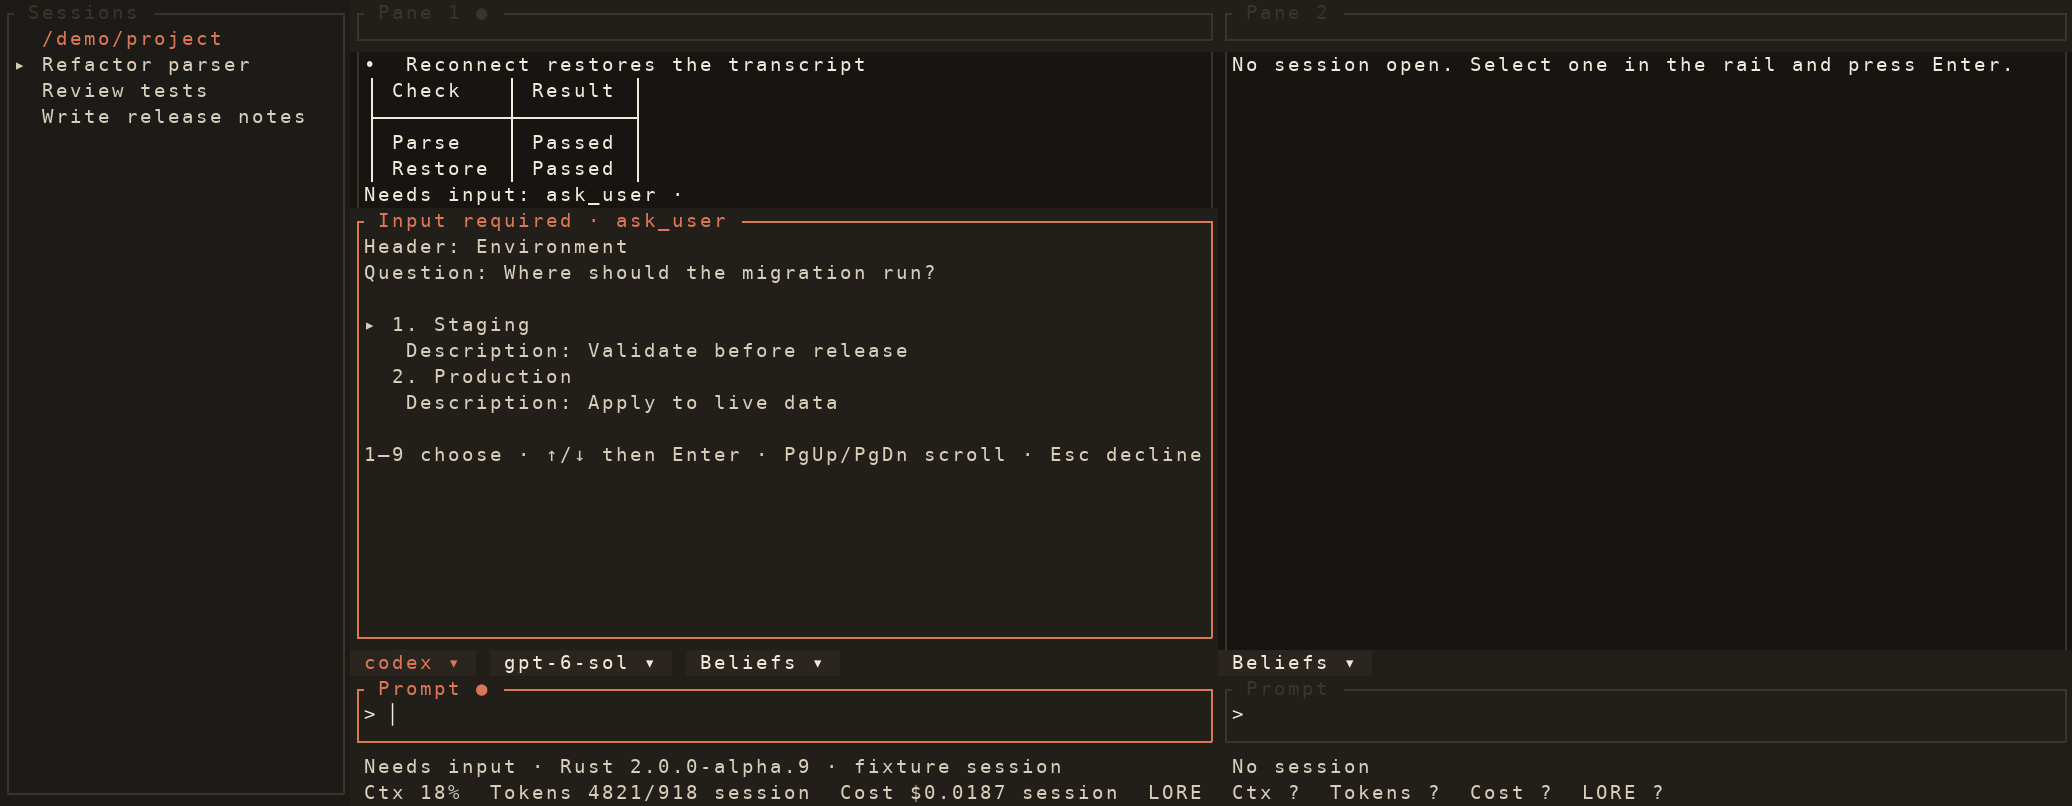
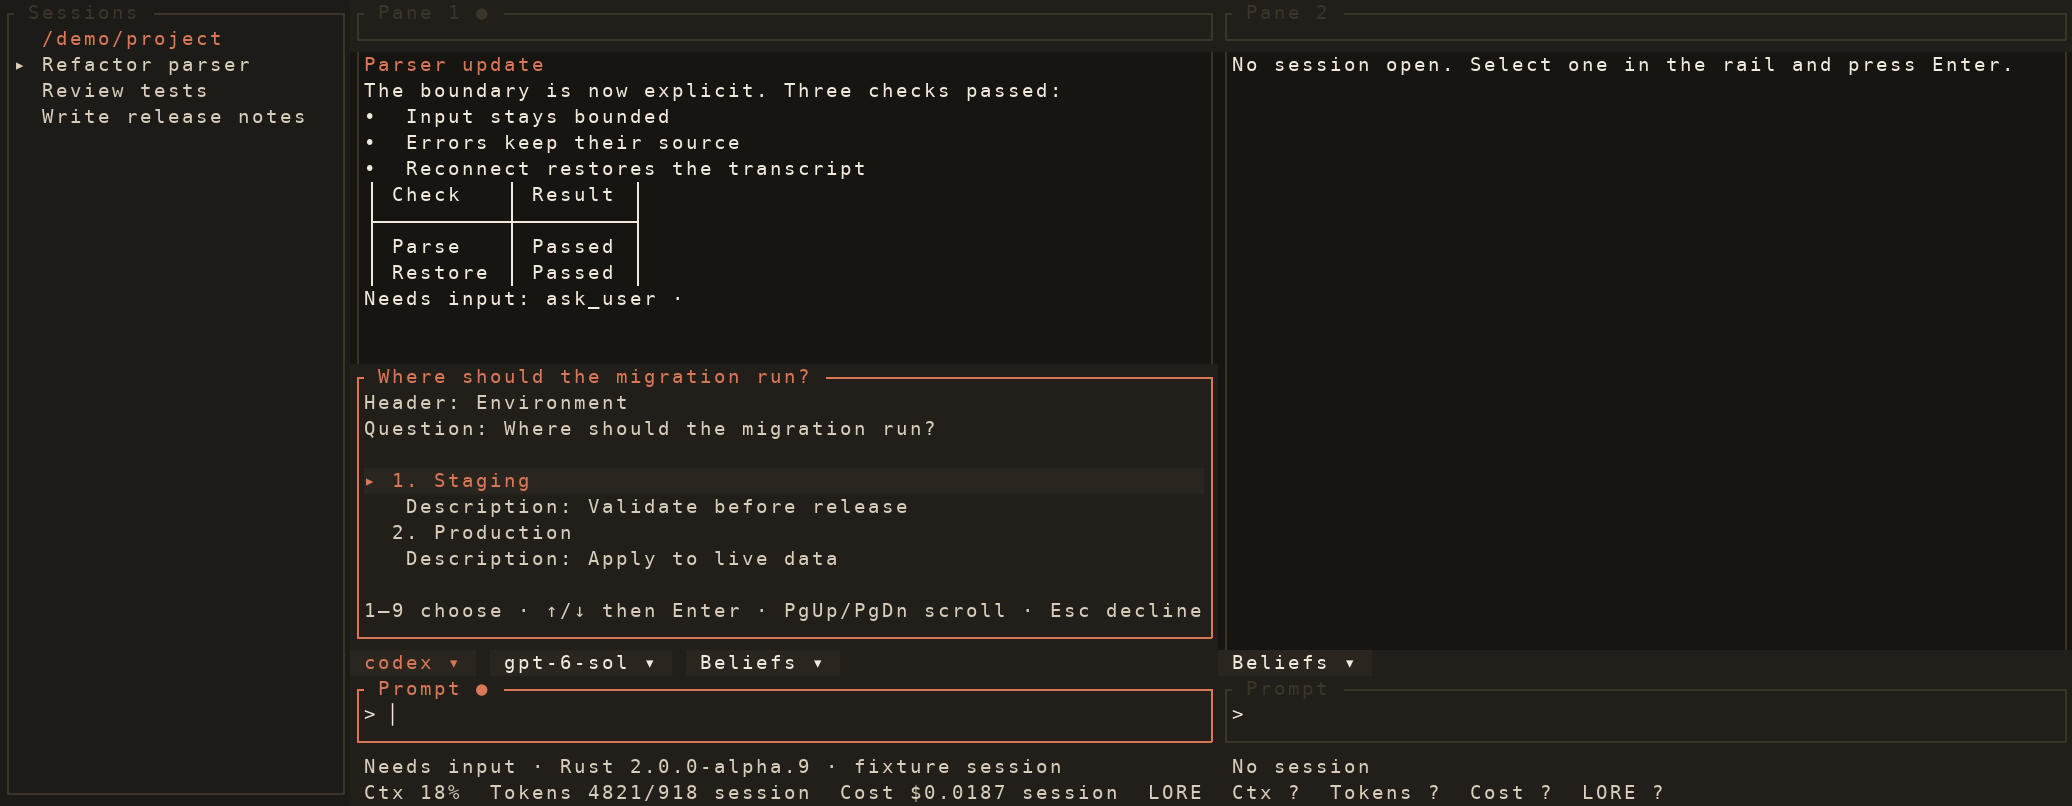
fix(tui): size inline choices to visible content

diff --git a/rust/doxa-tui/src/ui.rs b/rust/doxa-tui/src/ui.rs
@@ -21,7 +21,7 @@ use ratatui::style::{Modifier, Style};
 use ratatui::text::{Line, Span};
 use ratatui::widgets::{Block, Borders, Clear, Paragraph, Tabs, Wrap};
 use ratatui::{Frame, Terminal};
-use unicode_width::UnicodeWidthStr;
+use unicode_width::{UnicodeWidthChar, UnicodeWidthStr};
 
 use crate::{diff_view, history, launch, lore_picker, markdown, peer_map::PeerMap};
 use crate::theme;
@@ -104,6 +104,28 @@ fn safe_label(value: &str) -> String {
         .collect()
 }
 
+fn clipped_title(value: &str, width: usize) -> String {
+    let label = safe_label(value);
+    let mut out = String::new();
+    let mut used = 0;
+    for ch in label.chars() {
+        let cells = ch.width().unwrap_or(0);
+        if used + cells > width {
+            if width > 0 {
+                while used + 1 > width {
+                    if let Some(last) = out.pop() { used -= last.width().unwrap_or(0); }
+                    else { break; }
+                }
+                out.push('…');
+            }
+            return out;
+        }
+        out.push(ch);
+        used += cells;
+    }
+    out
+}
+
 fn unsafe_input_char(ch: char) -> bool {
     ch.is_control()
         || matches!(ch, '\u{200e}' | '\u{200f}' | '\u{202a}'..='\u{202e}' | '\u{2066}'..='\u{2069}')
@@ -112,6 +134,11 @@ fn unsafe_input_char(ch: char) -> bool {
 fn prompt_height(draft: &str, pane_height: u16) -> u16 {
     (draft.bytes().filter(|b| *b == b'\n').count().min(5) as u16 + 3)
         .clamp(3, 8).min(pane_height.saturating_sub(5).max(3))
+}
+
+fn wrapped_rows(text: &str, width: usize) -> usize {
+    let width = width.max(1);
+    text.lines().map(|line| line.width().max(1).div_ceil(width)).sum::<usize>().max(1)
 }
 
 const MAX_EVENT_FIELD_CHARS: usize = 320;
@@ -520,6 +547,49 @@ impl InputRequest {
             .map(|q| q.options.len())
             .unwrap_or(0)
     }
+}
+
+fn input_request_body(request: &InputRequest) -> String {
+    let mut body = String::new();
+    if request.kind == "ask_user" {
+        if let Some(question) = request.questions.get(request.step) {
+            if !question.header.is_empty() {
+                body.push_str("Header: ");
+                body.push_str(&markdown::sanitize(&question.header));
+                body.push('\n');
+            }
+            body.push_str("Question: ");
+            body.push_str(&markdown::sanitize(&question.question));
+            body.push_str("\n\n");
+            for (i, option) in question.options.iter().enumerate() {
+                body.push_str(&format!(
+                    "{} {}. {}\n",
+                    if i + 1 == request.selected { "▸" } else { " " },
+                    i + 1,
+                    markdown::sanitize(&option.label)
+                ));
+                if !option.description.is_empty() {
+                    body.push_str("   Description: ");
+                    body.push_str(&markdown::sanitize(&option.description));
+                    body.push('\n');
+                }
+            }
+        } else {
+            body.push_str("Question unavailable\n");
+        }
+        body.push_str("\n1–9 choose · ↑/↓ then Enter · PgUp/PgDn scroll · Esc decline");
+    } else {
+        body.push_str(&markdown::sanitize(&request.heading));
+        body.push_str("\n\n");
+        body.push_str("D deny · Esc deny · ↑/↓ scroll\nShift+A then Shift+Y to allow");
+        if request.allow_armed {
+            body.push_str("\nApproval armed · press Shift+Y now");
+        }
+    }
+    if request.sending {
+        body.push_str("\nSending answer…");
+    }
+    body
 }
 
 #[derive(Debug)]
@@ -2366,15 +2436,29 @@ impl App {
     /// Space for a chooser inside the active pane, immediately above its
     /// prompt. Reserving this space keeps the transcript and prompt visible.
     fn chooser_rect(&self, pane: Rect) -> Option<Rect> {
-        let wanted = if self.active_request_index().is_some_and(|index| self.input_requests[index].kind == "ask_user") {
-            17
-        } else if self.engine_picker || self.new_session.is_some()
-            || self.model_picker.is_some() || self.permission_picker.is_some() {
-            13
-        } else if self.lore_picker.is_some() {
-            19
+        let wanted = if let Some(index) = self.active_request_index().filter(|&index| self.input_requests[index].kind == "ask_user") {
+            let body = input_request_body(&self.input_requests[index]);
+            wrapped_rows(&body, usize::from(pane.width.saturating_sub(2)))
+                .saturating_add(2).clamp(6, 18) as u16
+        } else if self.engine_picker {
+            7
+        } else if let Some(form) = &self.new_session {
+            if form.engine == launch::Engine::Claude { 8 } else { 7 }
+        } else if self.permission_picker.is_some() {
+            10
+        } else if let Some(picker) = &self.model_picker {
+            (4 + picker.models.len() + usize::from(picker.catalog_pending || !picker.loading && picker.models.is_empty()))
+                .clamp(5, 13) as u16
+        } else if let Some(picker) = &self.lore_picker {
+            if let Some((_, evidence)) = &picker.evidence {
+                let rows = evidence.len().saturating_mul(2);
+                (if rows <= 4 { 4 + rows } else { 7 + rows }).clamp(5, 19) as u16
+            } else {
+                let rows = picker.rows.len();
+                (if rows <= 2 { 4 + rows } else { 7 + rows }).clamp(5, 19) as u16
+            }
         } else if self.action_menu {
-            15
+            (ACTIONS.len() + 2).min(15) as u16
         } else {
             return None;
         };
@@ -3037,57 +3121,35 @@ impl App {
             width,
             height,
         ) };
-        let mut body = String::new();
-        if request.kind == "ask_user" {
-            if let Some(question) = request.questions.get(request.step) {
-                if !question.header.is_empty() {
-                    body.push_str("Header: ");
-                    body.push_str(&markdown::sanitize(&question.header));
-                    body.push('\n');
-                }
-                body.push_str("Question: ");
-                body.push_str(&markdown::sanitize(&question.question));
-                body.push_str("\n\n");
-                for (i, option) in question.options.iter().enumerate() {
-                    body.push_str(&format!(
-                        "{} {}. {}\n",
-                        if i + 1 == request.selected {
-                            "▸"
-                        } else {
-                            " "
-                        },
-                        i + 1,
-                        markdown::sanitize(&option.label)
-                    ));
-                    if !option.description.is_empty() {
-                        body.push_str("   Description: ");
-                        body.push_str(&markdown::sanitize(&option.description));
-                        body.push('\n');
-                    }
-                }
-            } else {
-                body.push_str("Question unavailable\n");
-            }
-            body.push_str("\n1–9 choose · ↑/↓ then Enter · PgUp/PgDn scroll · Esc decline");
-        } else {
-            body.push_str(&markdown::sanitize(&request.heading));
-            body.push_str("\n\n");
-            body.push_str("D deny · Esc deny · ↑/↓ scroll\nShift+A then Shift+Y to allow");
-            if request.allow_armed {
-                body.push_str("\nApproval armed · press Shift+Y now");
-            }
-        }
-        if request.sending {
-            body.push_str("\nSending answer…");
-        }
+        let body = input_request_body(request);
+        let question = request.questions.get(request.step);
+        let selected_row = question.and_then(|question| {
+            question.options.get(request.selected.checked_sub(1)?).map(|_| {
+                let preceding = question.options.iter().take(request.selected - 1)
+                    .map(|option| 1 + usize::from(!option.description.is_empty())).sum::<usize>();
+                usize::from(!question.header.is_empty()) + 2 + preceding
+            })
+        });
+        let lines: Vec<Line> = body.lines().enumerate().map(|(index, text)| {
+            if Some(index) == selected_row {
+                let padding = usize::from(modal.width.saturating_sub(2)).saturating_sub(text.width());
+                Line::styled(format!("{text}{}", " ".repeat(padding)), Style::default().fg(theme::ACCENT)
+                    .bg(theme::HIGHLIGHT).add_modifier(Modifier::BOLD))
+            } else { Line::from(text.to_owned()) }
+        }).collect();
+        let title = if request.kind == "ask_user" {
+            question.map(|question| format!(" {} ", clipped_title(&question.question,
+                usize::from(modal.width.saturating_sub(4)))))
+                .unwrap_or_else(|| " Choose an answer ".into())
+        } else { format!(" Input required · {} ", request.kind) };
         if !inline { frame.render_widget(Clear, modal); }
         frame.render_widget(
-            Paragraph::new(body)
+            Paragraph::new(lines)
                 .wrap(Wrap { trim: false })
                 .scroll((request.scroll, 0))
                 .block(
                     Block::default()
-                        .title(format!(" Input required · {} ", request.kind))
+                        .title(title)
                         .borders(Borders::ALL)
                         .border_style(Style::default().fg(theme::ACCENT))
                         .style(Style::default().fg(theme::SECONDARY).bg(theme::RAISED)),
@@ -4148,7 +4210,7 @@ mod tests {
             offset: 0, status: "Ready".into(), evidence: None, pending: None });
         let lore = app.active_chooser_rect().unwrap();
         assert_eq!(lore.bottom(), menu.bottom());
-        assert!(lore.height > menu.height);
+        assert!(lore.height < menu.height, "empty LORE list should stay compact");
     }
 
     #[test]
@@ -4168,9 +4230,14 @@ mod tests {
         let menu = app.active_chooser_rect().unwrap();
         let screen = painted(&app);
         let rows: Vec<_> = screen.lines().collect();
-        assert!(rows[usize::from(menu.y)].contains("Input required"));
+        assert!(rows[usize::from(menu.y)].contains("Where?"));
         assert!(rows[usize::from(menu.y + 3)].contains("Staging"));
         assert!(rows[usize::from(menu.bottom() + 1)].contains("Prompt"));
+        assert!(menu.height <= 11, "short question should use only its content rows");
+        let mut terminal = Terminal::new(TestBackend::new(100, 28)).unwrap();
+        terminal.draw(|frame| app.draw(frame)).unwrap();
+        assert_eq!(terminal.backend().buffer()[(menu.x + 2, menu.y + 3)].bg, theme::HIGHLIGHT);
+        assert_eq!(terminal.backend().buffer()[(menu.right() - 3, menu.y + 3)].bg, theme::HIGHLIGHT);
         app.input_requests.clear();
 
         let pane = app.layout(app.size).panes.unwrap()[1];
@@ -4180,6 +4247,27 @@ mod tests {
         assert_eq!(app.active_group, 1);
         assert!(app.lore_picker.is_some());
         assert_eq!(app.active_chooser_rect().unwrap().x, pane.x);
+    }
+
+    #[test]
+    fn long_question_title_is_clipped_and_body_keeps_scrollable_text() {
+        let mut app = App::default();
+        app.handle(Event::Resize(100, 28));
+        app.rail_visible = false;
+        app.apply_daemon_frame(&json!({"type":"hello", "session_id":"a", "engine":"codex"}));
+        app.groups[0].tabs = vec!["a".into()];
+        let question = "Which deployment target should receive the migration? ".repeat(30);
+        app.apply_daemon_frame(&json!({"type":"event", "session_id":"a",
+            "event":{"type":"needs_input", "data":{"id":"req-long", "kind":"ask_user",
+                "questions":[{"question":question, "options":[{"label":"Staging"}]}]}}}));
+        let menu = app.active_chooser_rect().unwrap();
+        assert_eq!(menu.height, 18);
+        let rows: Vec<_> = painted(&app).lines().map(str::to_owned).collect();
+        assert!(rows[usize::from(menu.y)].contains('…'));
+        assert!(rows[usize::from(menu.y + 1)].contains("Question: Which deployment"));
+        app.handle(Event::Key(KeyEvent::new(KeyCode::PageDown, KeyModifiers::NONE)));
+        assert!(app.input_requests[0].scroll > 0);
+        assert!(painted(&app).contains("Prompt"));
     }
 
     #[test]
